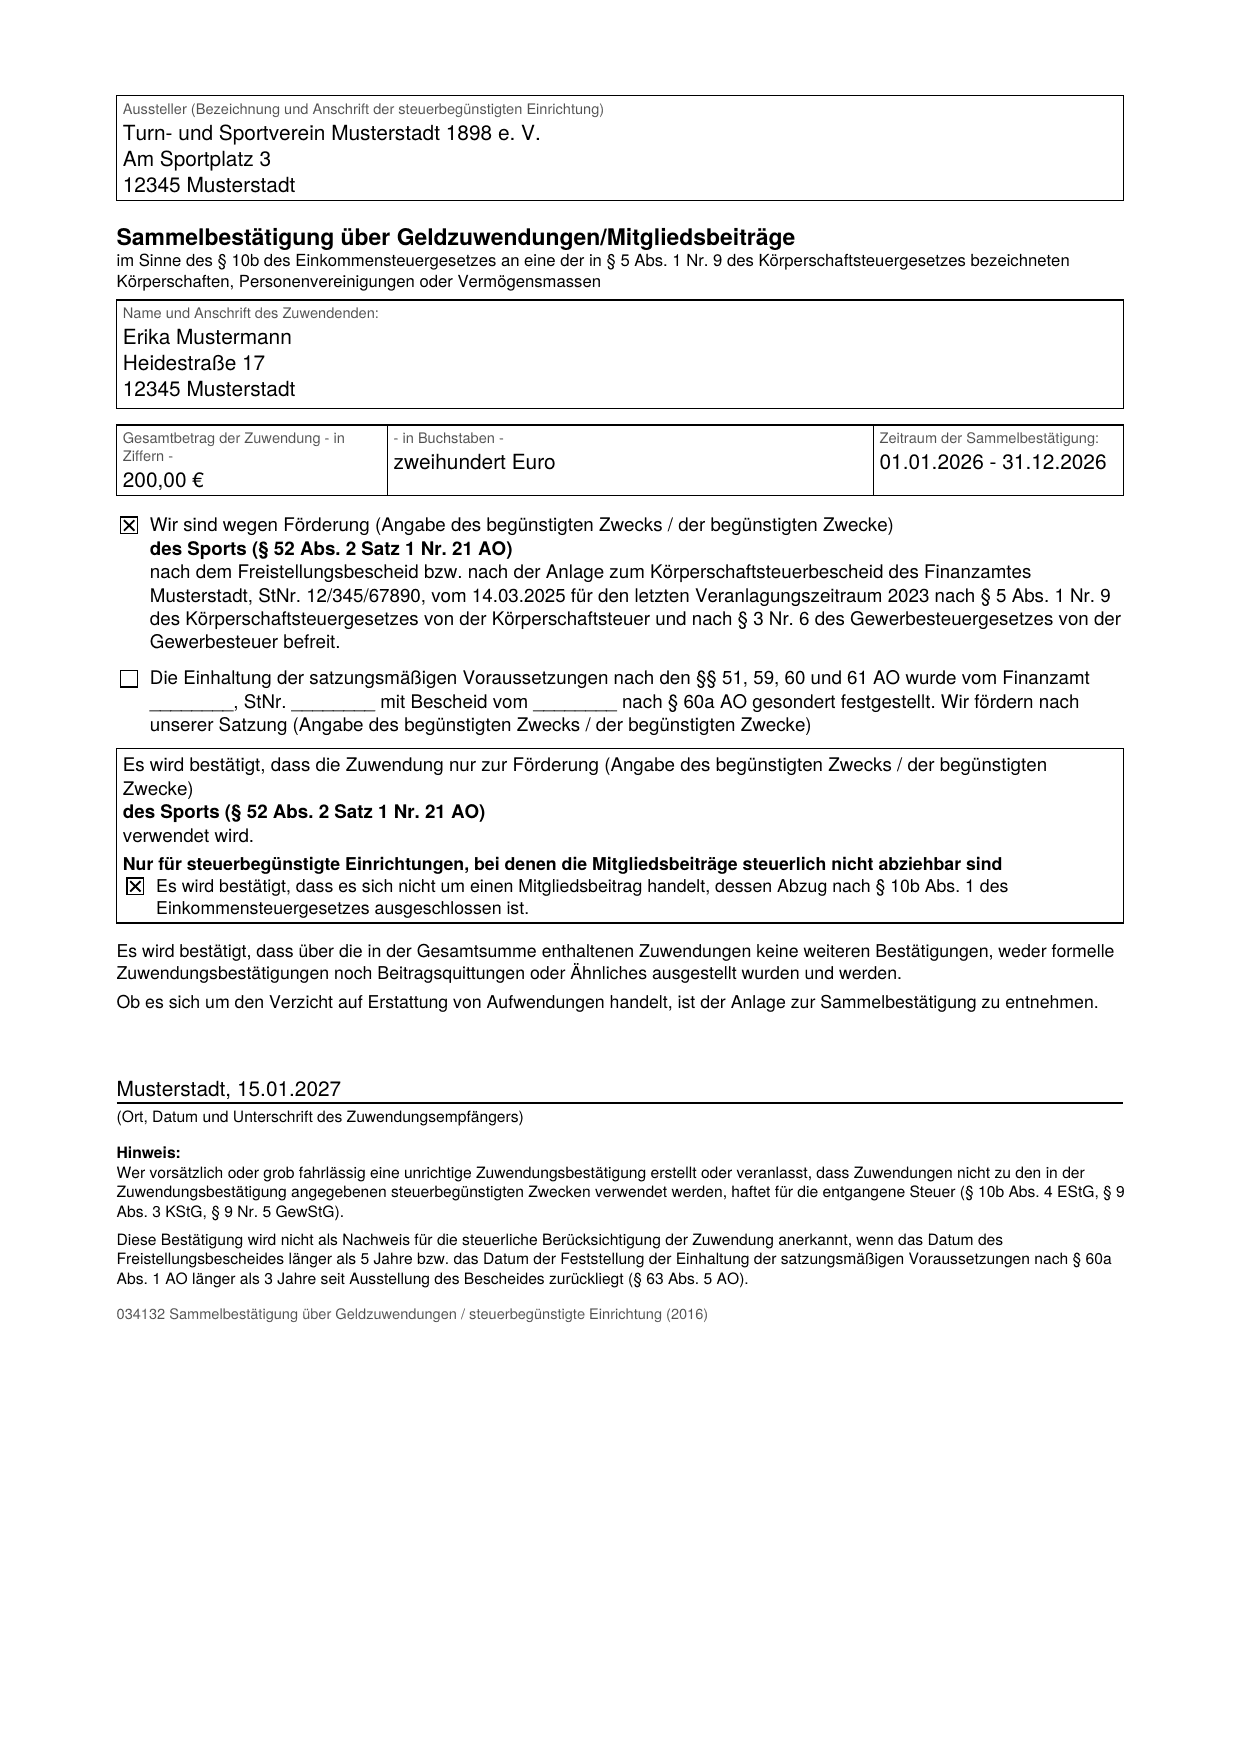
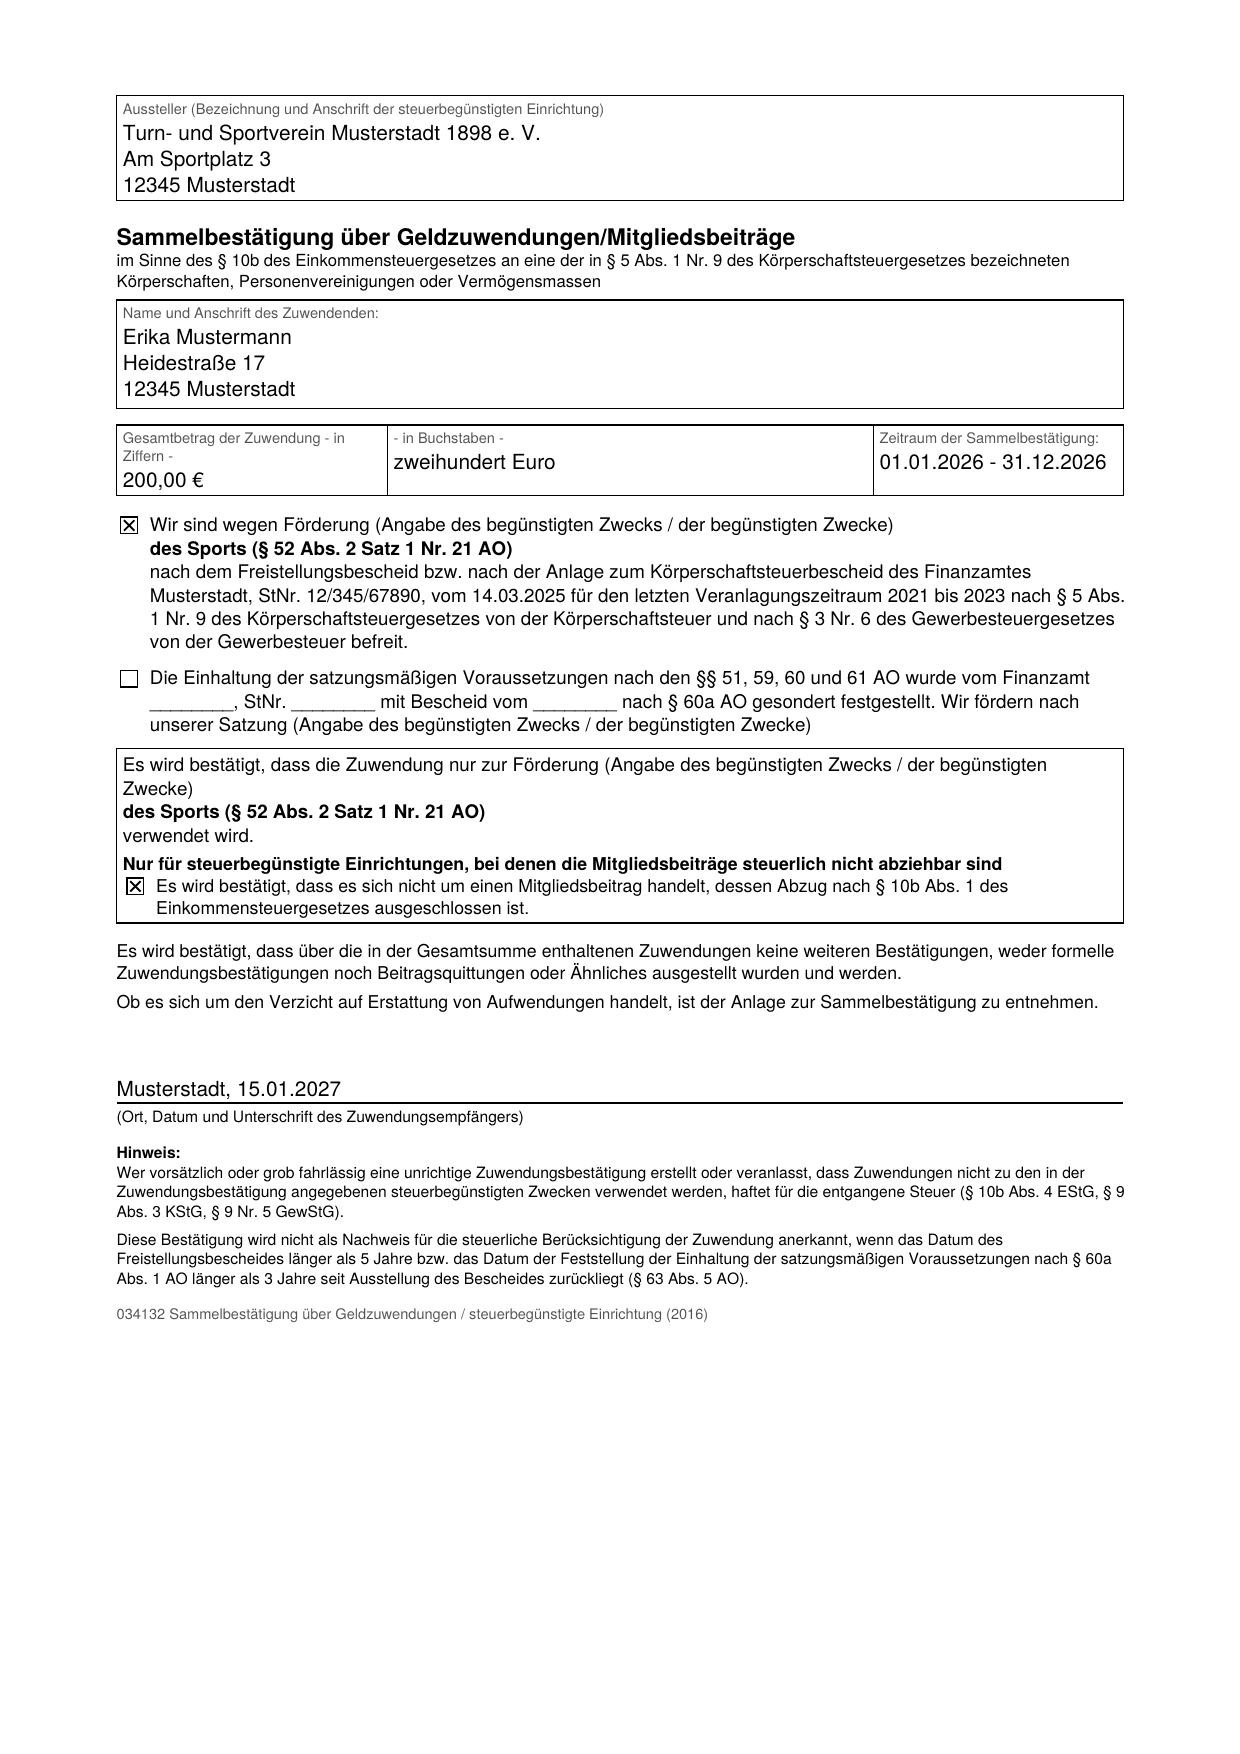
Seite aktualisiert (16b67a0)

Changed region(s): [[0.4597, 0.3387, 0.9194, 0.3694], [0.1226, 0.3387, 0.429, 0.3694]]

diff --git a/app.js b/app.js
@@ -40,7 +40,7 @@ end`},oh=function(){for(var e=[],t=0;t<arguments.length;t++)e[t]=arguments[t];re
 `),r=n=>t.split(n).length-1;return[";","	",","].sort((n,i)=>r(i)-r(n))[0]}function kd(e,t=Qg(e)){let r=[],n=[],i="",o=!1;for(let a=0;a<e.length;a++){let s=e[a];o?s==='"'&&e[a+1]==='"'?(i+='"',a++):s==='"'?o=!1:i+=s:s==='"'?o=!0:s===t?(n.push(i),i=""):s===`
 `||s==="\r"?(s==="\r"&&e[a+1]===`
 `&&a++,n.push(i),r.push(n),n=[],i=""):i+=s}return(i!==""||n.length)&&(n.push(i),r.push(n)),r.map(a=>a.map(s=>s.trim())).filter(a=>a.some(s=>s!==""))}function Af(e){return String(e??"").toLowerCase().replace(/ä/g,"ae").replace(/ö/g,"oe").replace(/ü/g,"ue").replace(/ß/g,"ss").normalize("NFKD").replace(/[̀-ͯ]/g,"").replace(/[^a-z0-9]/g,"")}var _g={datum:{muster:["buchungstag","buchungsdatum","buchung","datum","valutadatum","valuta","wertstellung","wert"]},name:{muster:["beguenstigterzahlungspflichtiger","namezahlungsbeteiligter","zahlungspflichtiger","zahlungspflichtige","beguenstigterauftraggeber","auftraggeberempfaenger","auftraggeber","zahlungsbeteiligter","gegenkontoname","name","empfaenger"],nicht:["auftragskonto","kontoinhaber","abweichend"]},betrag:{muster:["betrag","betrageur","umsatz","umsatzeur"],nicht:["ursprung","saldo","auslagen","gebuehr"]},haben:{muster:["haben","habeneur"]},zweck:{muster:["verwendungszweck","zweck","buchungstext","beschreibung","umsatztext"]},iban:{muster:["ibanzahlungsbeteiligter","kontonummeriban","ibankontonummer","gegenkontoiban","iban"],nicht:["auftragskonto","kontoinhaber","glaeubiger"]}};function $g(e,{muster:t,nicht:r=[]}){let n=e.map(Af),i=o=>!r.some(a=>o.includes(a));for(let o of t){let a=n.findIndex(s=>s===o&&i(s));if(a>=0)return a}for(let o of t){let a=n.findIndex(s=>s.startsWith(o)&&i(s));if(a>=0)return a}for(let o of t){let a=n.findIndex(s=>s.includes(o)&&i(s));if(a>=0)return a}return-1}function Ad(e){return Object.fromEntries(Object.entries(_g).map(([t,r])=>[t,$g(e,r)]))}function ey(e){for(let t=0;t<Math.min(e.length,40);t++){let r=Ad(e[t]);if(r.datum>=0&&(r.betrag>=0||r.haben>=0)&&e[t].length>=3)return t}return-1}function Ca(e){let t=String(e??"").trim(),r=t.match(/^(\d{4})-(\d{2})-(\d{2})/);if(r)return Cd(+r[1],+r[2],+r[3]);if(r=t.match(/^(\d{1,2})[./](\d{1,2})[./](\d{2}|\d{4})$/),r){let n=r[3].length===2?2e3+Number(r[3]):Number(r[3]);return Cd(n,+r[2],+r[1])}return null}function Cd(e,t,r){let n=new Date(Date.UTC(e,t-1,r));return n.getUTCFullYear()!==e||n.getUTCMonth()!==t-1||n.getUTCDate()!==r?null:`${e}-${String(t).padStart(2,"0")}-${String(r).padStart(2,"0")}`}function gn(e){let[t,r,n]=String(e).split("-");return`${n}.${r}.${t}`}function ka(e,t={}){let r=kd(e),n=t.kopfIndex??ey(r);if(n<0)return{kopf:[],zuordnung:null,buchungen:[],fehler:"Keine Kopfzeile mit Datum und Betrag gefunden."};let i=r[n],o={...Ad(i),...t.zuordnung??{}},a=[],s=0;for(let u of r.slice(n+1)){let f=Ca(u[o.datum]),l=o.betrag>=0?xo(u[o.betrag]):null;if(l==null&&o.haben>=0&&(l=xo(u[o.haben])),!f||l==null){s++;continue}a.push({datum:f,name:o.name>=0?u[o.name]??"":"",iban:o.iban>=0?(u[o.iban]??"").replace(/\s/g,"").toUpperCase():"",zweck:o.zweck>=0?u[o.zweck]??"":"",betragCent:l})}return{kopf:i,kopfIndex:n,zuordnung:o,buchungen:a,uebersprungen:s}}function ty(e){return/beitrag/i.test(e??"")?"Mitgliedsbeitrag":"Geldzuwendung"}var ry=new Set(["herr","herrn","frau","dr","prof","familie","fam","u","und"]);function At(e){return String(e??"").split(/[\s,.;/&+]+/).map(Af).filter(t=>t&&!ry.has(t)).sort().join(" ")}function Ed(e){let t=new Map;for(let r of e){if(r.betragCent<=0)continue;let n=r.iban||`name:${At(r.name)}`;t.has(n)||t.set(n,{key:n,name:r.name,iban:r.iban,posten:[]}),t.get(n).posten.push({datum:r.datum,zweck:r.zweck,betragCent:r.betragCent,art:ty(r.zweck),verzicht:!1})}return[...t.values()].map(r=>({...r,posten:r.posten.sort((n,i)=>n.datum.localeCompare(i.datum))})).sort((r,n)=>r.name.localeCompare(n.name,"de"))}function Td(e){let t=kd(e);if(t.length<2)return new Map;let r=t[0].map(Af),n=(...a)=>r.findIndex(s=>a.some(u=>s===u||s.startsWith(u))),i={vorname:n("vorname"),nachname:n("nachname","familienname"),name:n("name","mitglied"),strasse:n("strasse","str","anschrift","adresse"),plz:n("plz","postleitzahl"),ort:n("ort","wohnort","stadt")},o=new Map;for(let a of t.slice(1)){let s=i.vorname>=0&&i.nachname>=0?`${a[i.vorname]} ${a[i.nachname]}`:a[i.name]??"";if(!s.trim())continue;let u=[i.plz>=0?a[i.plz]:"",i.ort>=0?a[i.ort]:""].filter(Boolean).join(" "),f=[i.strasse>=0?a[i.strasse]:"",u].filter(Boolean);o.set(At(s),{name:s.trim(),anschrift:f})}return o}function Ef(e,t,r){let n=Ca(t),i=Ca(r);if(!n||!i)return{fehler:null,bis:null};if(n>i)return{fehler:"Das Datum des Bescheids liegt nach dem Ausstellungsdatum. Bitte beide Daten pr\xFCfen.",bis:null};let o=e==="feststellung"?3:5,[a,s,u]=n.split("-").map(Number),f=new Date(Date.UTC(a+o,s-1,u)).toISOString().slice(0,10);return i>f?{fehler:`Der Bescheid ist \xE4lter als ${o} Jahre. Nach \xA7 63 Abs. 5 AO d\xFCrfen Sie damit keine Zuwendungsbest\xE4tigungen mehr ausstellen. Bitte fordern Sie beim Finanzamt einen aktuellen Bescheid an.`,bis:f}:{fehler:null,bis:f}}var ny={GMBH:"GmbH",MBH:"mbH",AG:"AG",KG:"KG",UG:"UG",OHG:"OHG",GBR:"GbR",EG:"eG","E.V.":"e. V.",EV:"e. V."};function zd(e){let t=String(e??"").replace(/\s+/g," ").trim();if(!t)return t;t===t.toUpperCase()&&/\p{Lu}/u.test(t)&&(t=t.toLowerCase().replace(/(^|[\s\-'(])(\p{L})/gu,(i,o,a)=>o+a.toUpperCase()),t=t.split(" ").map(i=>ny[i.toUpperCase()]??i).join(" "));let r=t.split(",").map(i=>i.trim());return!/\b(GmbH|mbH|AG|KG|UG|OHG|GbR|eG|e\. ?V\.)(\s|$)/.test(t)&&r.length===2&&r.every(i=>i&&i.split(" ").length<=3)&&(t=`${r[1]} ${r[0]}`),t}function Tf(e,t){let r=String(e??"").replace(/ä/g,"ae").replace(/ö/g,"oe").replace(/ü/g,"ue").replace(/Ä/g,"Ae").replace(/Ö/g,"Oe").replace(/Ü/g,"Ue").replace(/ß/g,"ss").normalize("NFKD").replace(/[̀-ͯ]/g,"").replace(/[^A-Za-z0-9-]+/g,"_").replace(/^_+|_+$/g,"").slice(0,60);return`Zuwendungsbestaetigung_${t}_${r||"ohne_Namen"}.pdf`}var iy=[[/startgeld|teilnahmegeb|meldegeb|nenngeld/i,"Startgeld oder Teilnahmegeb\xFChr (Gegenleistung)"],[/kursgeb|kursbeitrag|lehrgang/i,"Kursgeb\xFChr (Gegenleistung)"],[/eintritt|ticket/i,"Eintritt (Gegenleistung)"],[/sponsor/i,"Sponsoring (Gegenleistung)"],[/miete|pacht/i,"Miete oder Pacht"],[/erstattung|rückzahlung|rueckzahlung|storno|rücklastschrift|ruecklastschrift/i,"Erstattung oder R\xFCckbuchung"],[/zuschuss|fördermittel|foerdermittel/i,"Zuschuss aus \xF6ffentlichen Mitteln"],[/rechnung|\bre-?nr\b/i,"Zahlung auf eine Rechnung"],[/zinsen|zinsgutschrift/i,"Zinsen"]];function Rd(e){for(let[t,r]of iy)if(t.test(e??""))return r;return null}var oy='"Auftragskonto";"Buchungstag";"Valutadatum";"Buchungstext";"Verwendungszweck";"Glaeubiger ID";"Mandatsreferenz";"Kundenreferenz (End-to-End)";"Sammlerreferenz";"Lastschrift Ursprungsbetrag";"Auslagenersatz Ruecklastschrift";"Beguenstigter/Zahlungspflichtiger";"Kontonummer/IBAN";"BIC (SWIFT-Code)";"Betrag";"Waehrung";"Info"',Jt=(e,t,r,n,i,o)=>`"DE00000000000000000000";"${e}";"${e}";"${t}";"${r}";"";"";"";"";"";"";"${n}";"${i}";"";"${o}";"EUR";"Umsatz gebucht"`,Mr="GUTSCHR. UEBERWEISUNG",zf=[oy,Jt("15.01.26","GUTSCHR. UEBERWEISUNG","Mitgliedsbeitrag 2026","NORMALVERBRAUCHER, OTTO","DE00000000000000000003","120,00"),Jt("31.01.26",Mr,"Spende Jugendabteilung","MUSTERMANN, ERIKA","DE00000000000000000001","50,00"),Jt("05.02.26","FOLGELASTSCHRIFT","Hallenstrom Januar","Stadtwerke Musterstadt","DE00000000000000000099","-86,40"),Jt("30.04.26",Mr,"Spende Jugendabteilung","MUSTERMANN, ERIKA","DE00000000000000000001","50,00"),Jt("12.06.26",Mr,"Spende neue Tore","Max Mustermann","DE00000000000000000002","150,00"),Jt("20.06.26",Mr,"Startgeld Kreismeisterschaft","Lieschen Mueller","DE00000000000000000004","30,00"),Jt("31.07.26",Mr,"Spende Jugendabteilung","MUSTERMANN, ERIKA","DE00000000000000000001","50,00"),Jt("01.09.26",Mr,"Sponsoring Trikots Saison 26/27","BAECKEREI BEISPIEL GMBH","DE00000000000000000005","500,00"),Jt("31.10.26",Mr,"Spende Jugendabteilung","MUSTERMANN, ERIKA","DE00000000000000000001","50,00"),Jt("18.12.26",Mr,"Weihnachtsspende","NORMALVERBRAUCHER, OTTO","DE00000000000000000003","75,00")].join(`\r
-`),Od={name:"Turn- und Sportverein Musterstadt 1898 e. V.",strasse:"Am Sportplatz 3",plzOrt:"12345 Musterstadt",variante:"freistellung",finanzamt:"Musterstadt",steuernummer:"12/345/67890",bescheidDatum:"2025-03-14",veranlagungszeitraum:"2023",zwecke:"des Sports (\xA7 52 Abs. 2 Satz 1 Nr. 21 AO)",freizeitzwecke:!0,ort:"Musterstadt"},Bd=`Vorname;Nachname;Stra\xDFe;PLZ;Ort
+`),Od={name:"Turn- und Sportverein Musterstadt 1898 e. V.",strasse:"Am Sportplatz 3",plzOrt:"12345 Musterstadt",variante:"freistellung",finanzamt:"Musterstadt",steuernummer:"12/345/67890",bescheidDatum:"2025-03-14",veranlagungszeitraum:"2021 bis 2023",zwecke:"des Sports (\xA7 52 Abs. 2 Satz 1 Nr. 21 AO)",freizeitzwecke:!0,ort:"Musterstadt"},Bd=`Vorname;Nachname;Stra\xDFe;PLZ;Ort
 Erika;Mustermann;Heidestra\xDFe 17;12345;Musterstadt
 Max;Mustermann;Lindenweg 4;12345;Musterstadt
 Otto;Normalverbraucher;Marktplatz 1;12346;Beispielheim

diff --git a/index.html b/index.html
@@ -78,7 +78,8 @@
             <input type="date" name="bescheidDatum">
           </label>
           <label data-nur="freistellung">Letzter Veranlagungszeitraum
-            <input name="veranlagungszeitraum" placeholder="2023">
+            <input name="veranlagungszeitraum" placeholder="2021 bis 2023">
+            <span class="hilfe">Die Jahre, für die das Finanzamt den Verein zuletzt geprüft hat. Sie stehen oben auf dem Freistellungsbescheid.</span>
           </label>
           <label class="breit">Begünstigte Zwecke, wie im Bescheid
             <textarea name="zwecke" rows="2" placeholder="des Sports (§ 52 Abs. 2 Satz 1 Nr. 21 AO)"></textarea>
